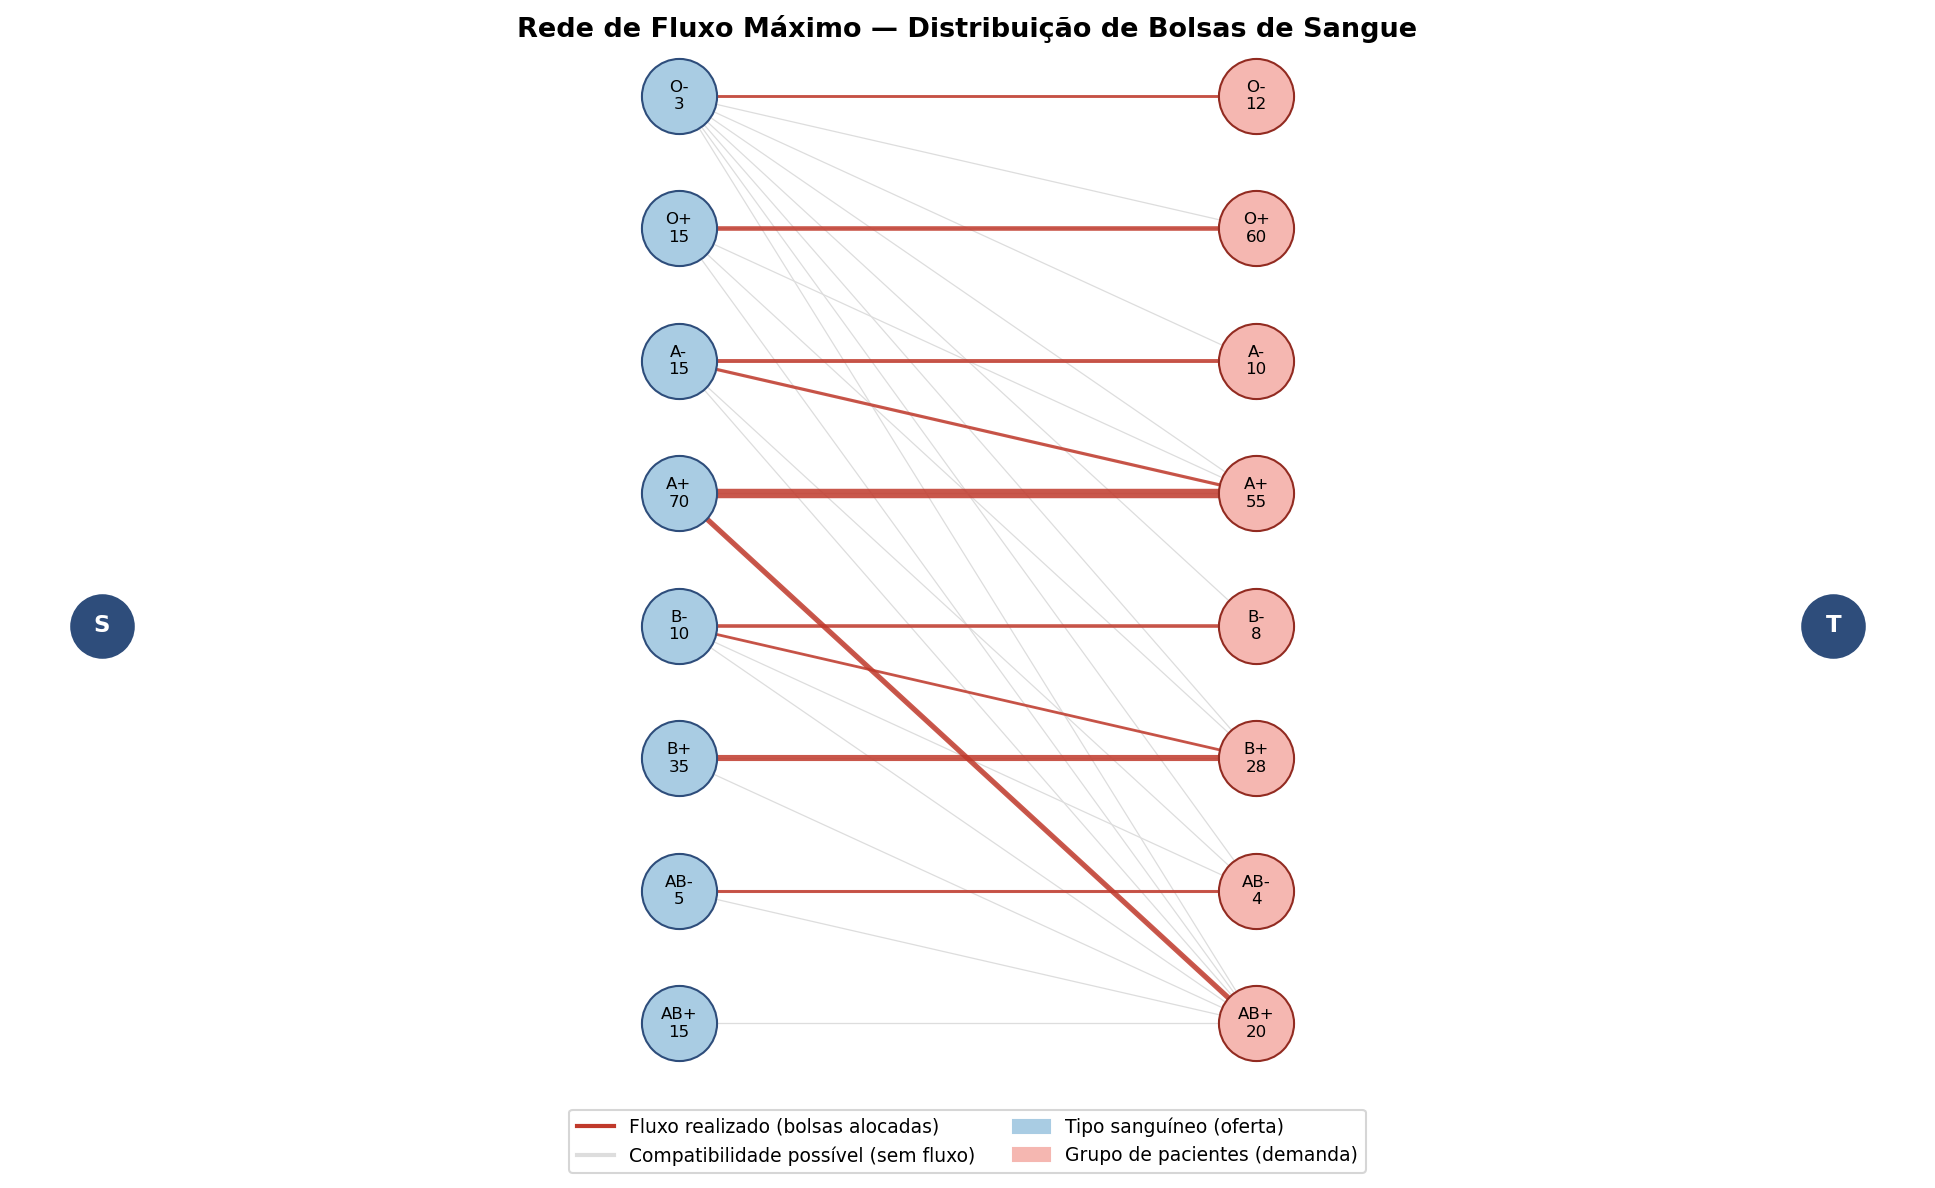
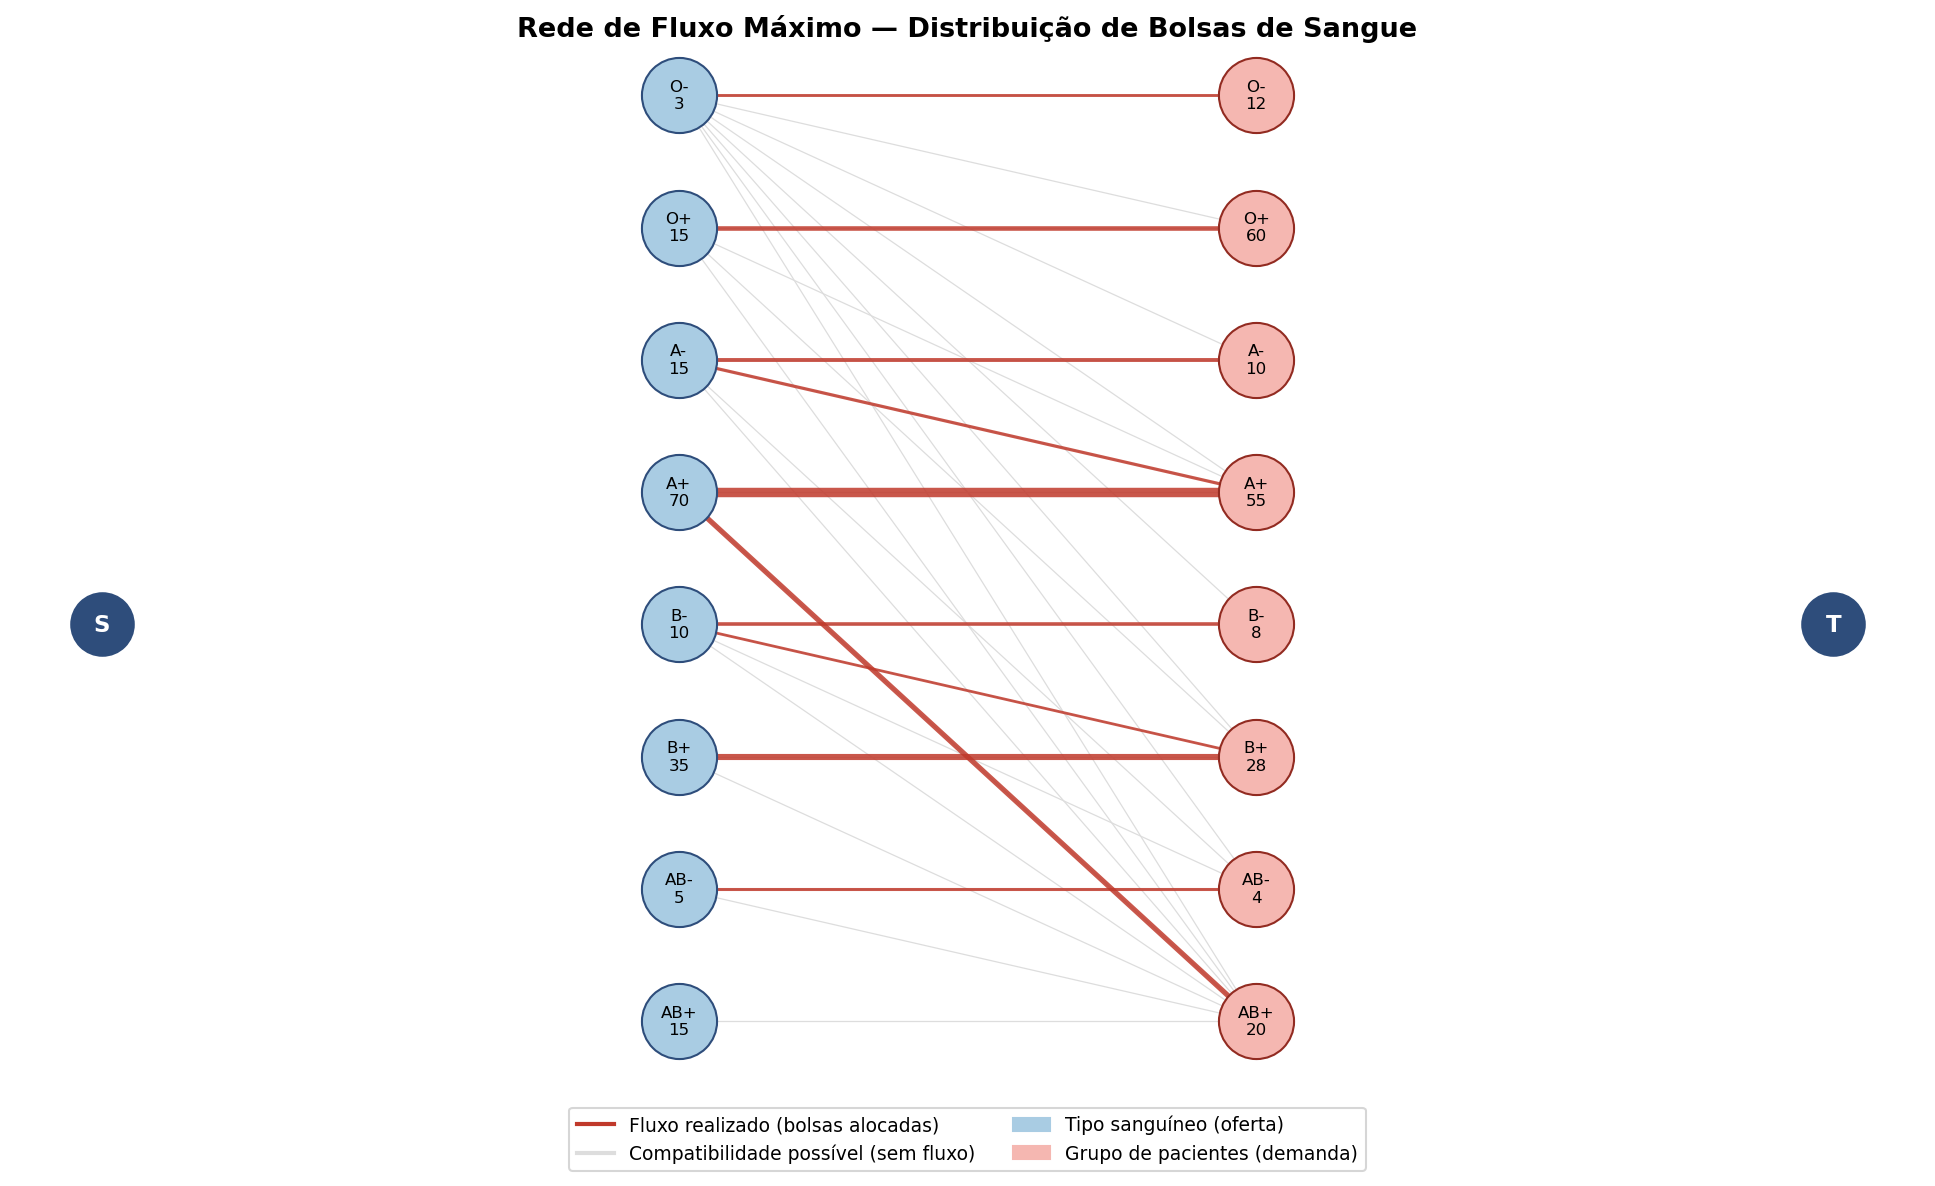
Ajustes finais

diff --git a/blood_flow.py b/blood_flow.py
@@ -49,12 +49,12 @@ class GrafoFluxo:
             u = fila.popleft()
             for v, capacidade in self.grafo[u].items():
                 if v not in visitados and capacidade > 0:
-                    visitados.add(v)
+                    visitados.add(v) # marca v como visitado
                     pai[v] = u # Se v for alcançado, u é seu pai no caminho
                     if v == sumidouro:
-                        return True
-                    fila.append(v)
-        return False
+                        return True # caminho aumentante encontrado, interrompe a BFS
+                    fila.append(v) # BFS por nível garante o caminho mais curto (em número de arestas)
+        return False # fila esgotada sem alançar T. Logo, não existem mais caminhos aumentantes
 
     def edmonds_karp(self, fonte, sumidouro):
         """
@@ -65,38 +65,38 @@ class GrafoFluxo:
         # guarda capacidades originais para depois calcular fluxo por aresta
         capacidade_original = {u: dict(vs) for u, vs in self.grafo.items()}
 
-        fluxo_total = 0
-        caminhos    = []   # guarda caminhos para exibição didática
+        fluxo_total = 0    # acumulador do fluxo máximo
+        caminhos    = []   # guarda caminhos para exibição (apenas para visualizar no terminal)
 
         while True:
             pai = {}
             if not self.bfs(fonte, sumidouro, pai):
-                break  # não há mais caminhos aumentantes
+                break  # não há mais caminhos aumentantes, fluxo máximo atingido
 
             # determina gargalo do caminho encontrado
             gargalo = float('inf')
             v = sumidouro
-            while v != fonte:
+            while v != fonte: # percorre o caminho de trás para frente
                 u = pai[v]
-                gargalo = min(gargalo, self.grafo[u][v])
+                gargalo = min(gargalo, self.grafo[u][v]) # o gargalo é a menor capacidade residual ao longo do caminho
                 v = u
 
             # reconstrói o caminho para exibição
             caminho = []
             v = sumidouro
-            while v != fonte:
+            while v != fonte: # reconstrói o caminho do sumidouro até a fonte
                 caminho.append(v)
                 v = pai[v]
             caminho.append(fonte)
-            caminho.reverse()
-            caminhos.append((caminho, gargalo))
+            caminho.reverse() # inverte para exibir da fonte até o sumidouro
+            caminhos.append((caminho, gargalo)) # salva para printar
 
             # atualiza capacidades residuais
             v = sumidouro
             while v != fonte:
                 u = pai[v]
-                self.grafo[u][v] -= gargalo
-                self.grafo[v][u] += gargalo
+                self.grafo[u][v] -= gargalo # consome capacidade na aresta direta
+                self.grafo[v][u] += gargalo # libera capacidade na aresta reversa
                 v = u
 
             fluxo_total += gargalo
@@ -107,10 +107,10 @@ class GrafoFluxo:
             for v, cap_orig in vizinhos.items():
                 if cap_orig > 0:  # só arestas "reais", não as reversas artificiais
                     usado = cap_orig - self.grafo[u][v]
-                    if usado > 0:
+                    if usado > 0: # ignora arestas sem fluxo
                         fluxo_por_aresta[(u, v)] = usado
-
-        return fluxo_total, caminhos, fluxo_por_aresta
+        # retorna: (valor do fluxo máximo, histórico de caminhos, fluxo real por aresta)
+        return fluxo_total, caminhos, fluxo_por_aresta 
 
     def corte_minimo(self, fonte):
         """
@@ -119,6 +119,8 @@ class GrafoFluxo:
         - Lado T: os demais nós
         Retorna as arestas saturadas que cruzam de S para T (o gargalo).
         """
+        # BFS final no grafo residual para mapear o lado s do corte mínimo
+        # todos os nós alcançáveis a partir da fonte com cap > 0 pertencem ao lado s
         alcancaveis = {fonte}
         fila = deque([fonte])
         while fila:
@@ -128,12 +130,15 @@ class GrafoFluxo:
                     alcancaveis.add(v)
                     fila.append(v)
 
+        # arestas do corte → arestas que saem do lado S e chegam no lado T
+        # são exatamente as arestas saturas que limitam o fluxo máximo
         arestas_corte = []
         for u in alcancaveis:
             for v in self.grafo.get(u, {}):
                 if v not in alcancaveis:
                     arestas_corte.append((u, v))
-
+        # alcancáveis → lado s do Corte
+        # arestas_corte → gargalos da rede
         return alcancaveis, arestas_corte
 
 
@@ -207,30 +212,32 @@ def construir_grafo(estoque=None):
         estoque = ESTOQUE_BOLSAS
 
     g = GrafoFluxo()
-    FONTE     = "S"
-    SUMIDOURO = "T"
+    FONTE     = "S" # Hospital como ponto de origem
+    SUMIDOURO = "T" # absorve todo o fluxo distribuído
 
     # Camada 1: Fonte → Oferta (capacidade = estoque disponível)
+    # itera sobre o dicionário de estoque e cria uma aresta da fonte para cada tipo sanguíneo (a capacidade dessa aresta é o número de bolsas disponível)
     for tipo, qtd in estoque.items():
         g.adicionar_aresta(FONTE, tipo, qtd)
 
     # Camada 2: Oferta → Demanda (capacidade infinita, limitada só pela compatibilidade)
     for doador, receptores in COMPATIBILIDADE.items():
-        for receptor in receptores:
+        for receptor in receptores: # cada par (doador, receptor) compatível vira uma aresta
             g.adicionar_aresta(doador, receptor, CAPACIDADE_INF)
 
     # Camada 3: Demanda → Sumidouro (capacidade = necessidade do paciente)
+    # A capacidade é a demanda do grupo (o algoritmo não irá enviar mais do que o necessário)
     for tipo_pac, qtd in DEMANDA_PACIENTES.items():
         g.adicionar_aresta(tipo_pac, SUMIDOURO, qtd)
 
-    return g, FONTE, SUMIDOURO
+    return g, FONTE, SUMIDOURO # retorna o grafo pronto e os identificadores dos terminais
 
 
 # =============================================================================
 # EXIBIÇÃO DOS RESULTADOS
 # =============================================================================
 
-def exibir_resultados(estoque, fluxo_maximo, caminhos, fluxo_por_aresta, grafo, fonte, titulo):
+def exibir_resultados(estoque, fluxo_maximo, caminhos, fluxo_por_aresta, grafo, fonte, titulo):#
     demanda_total = sum(DEMANDA_PACIENTES.values())
 
     print("=" * 64)

diff --git a/relatorio_trabalho3.md b/relatorio_trabalho3.md
@@ -68,7 +68,7 @@ def edmonds_karp(self, fonte, sumidouro):
 
 A cada iteração, uma busca em largura (BFS) localiza um caminho aumentante da fonte ao sumidouro no grafo residual. O **gargalo** desse caminho (a menor capacidade residual entre as arestas percorridas) é então somado ao fluxo total, e as capacidades são atualizadas — inclusive a aresta reversa, que permite ao algoritmo "desfazer" alocações caso uma rota melhor seja encontrada depois.
 
-**Complexidade:** O(V·E²), adequada ao tamanho da rede modelada (17 nós, ~30 arestas).
+**Complexidade:** O(V·E²). A rede modelada possui 18 nós (S, 8 tipos de oferta, 8 grupos de pacientes, T) e 29 arestas (8 de S→oferta, 21 de compatibilidade, 8 de demanda→T), resultando em um limite superior de O(18 × 29²) = O(15.138) operações. Na prática, o algoritmo convergiu em apenas 12 iterações no cenário normal — muito abaixo do pior caso teórico.
 
 ### 3.3. Corte mínimo (detecção de gargalo)
 